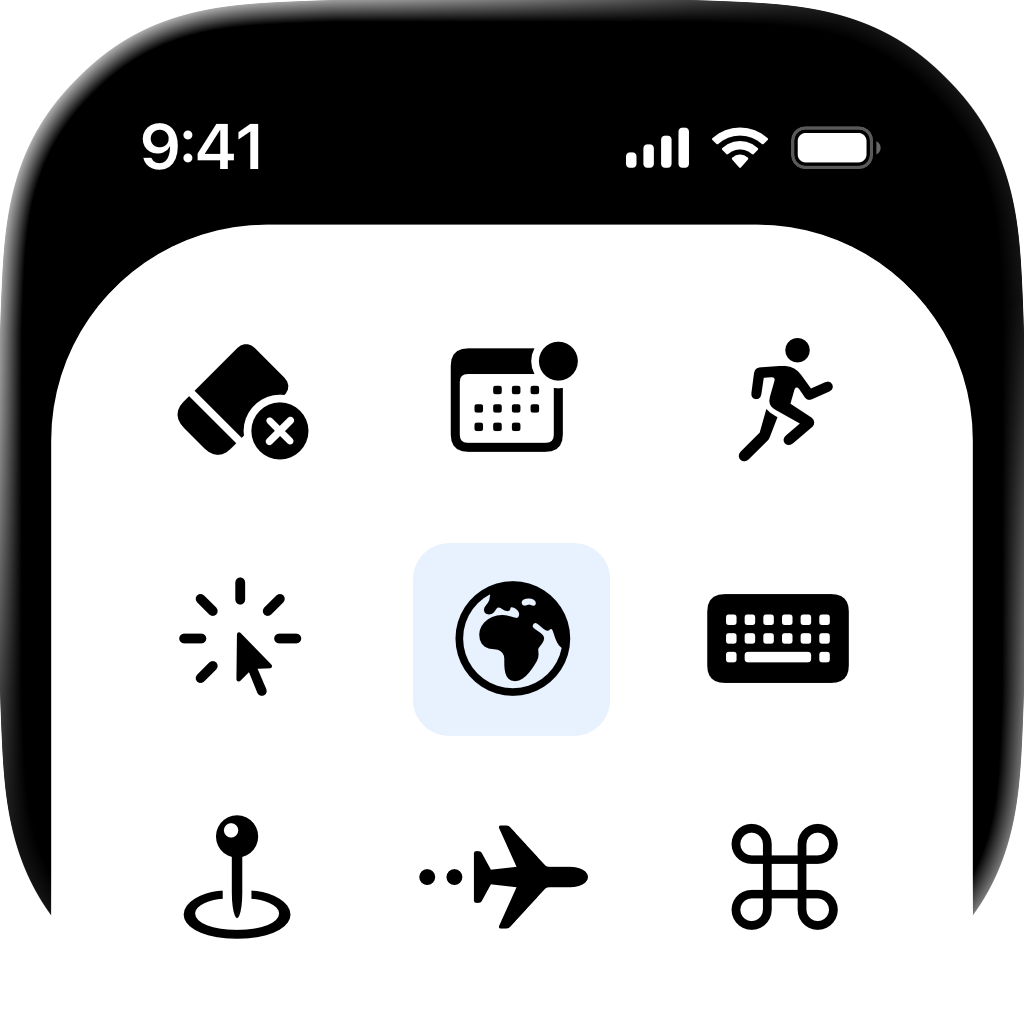
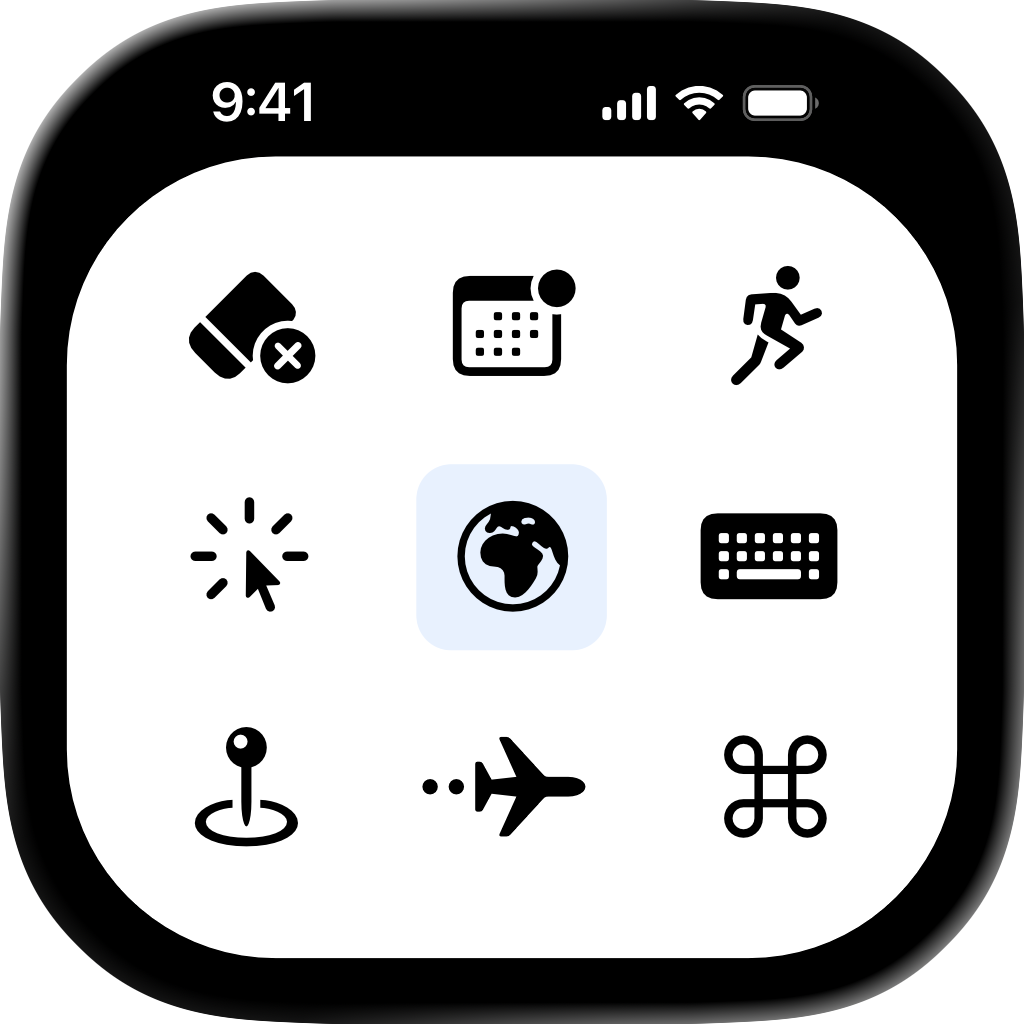
Updated README

diff --git a/README.md b/README.md
@@ -1,5 +1,5 @@
 <div align="center">
-  <img width="128" height="128" src="Resources/icon.png" alt="SFSymbolsPicker Logo">
+  <img width="230" height="230" src="Resources/icon.png" alt="SFSymbolsPicker Logo">
   <h1>SF Symbols Picker for SwiftUI</h1>
   <p>A simple, highly customizable SwiftUI component for picking Apple's SF Symbols in iOS and macOS applications.</p>
 